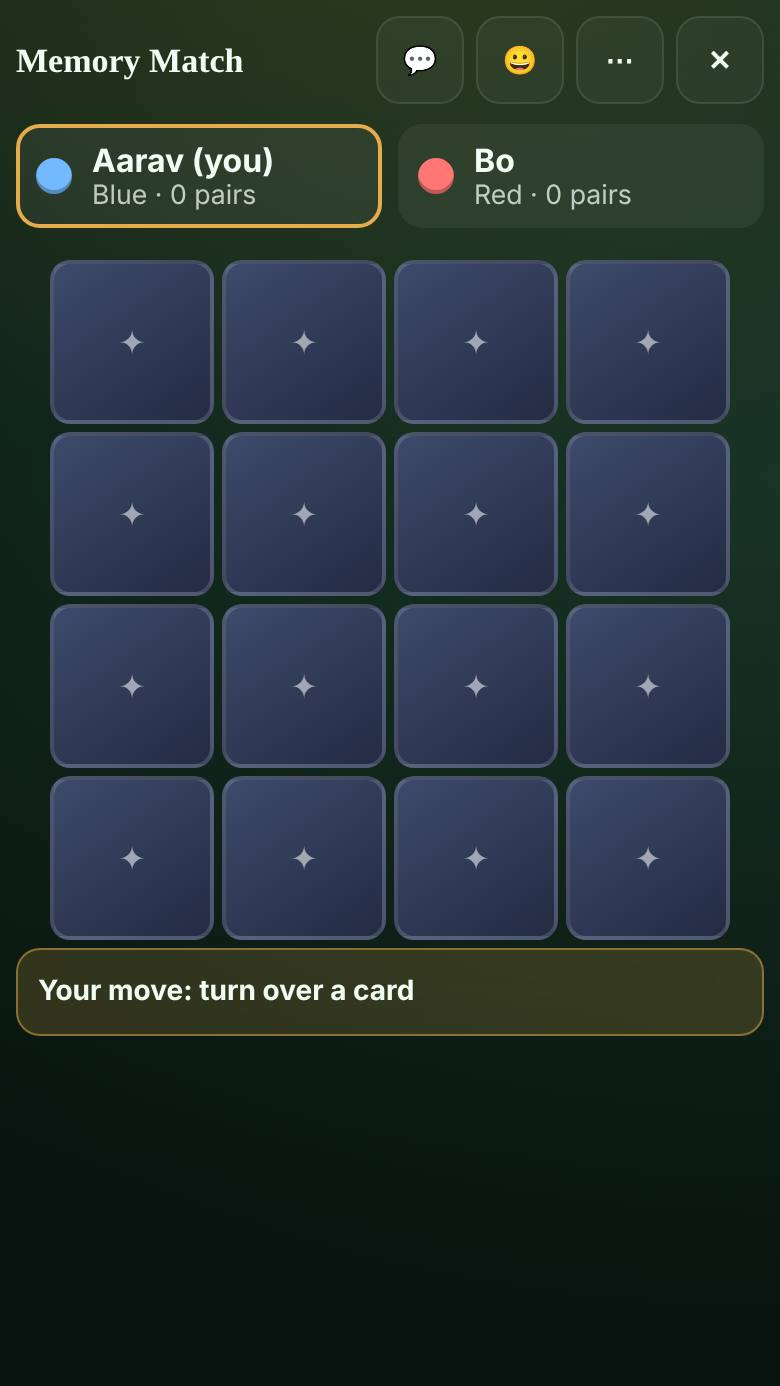
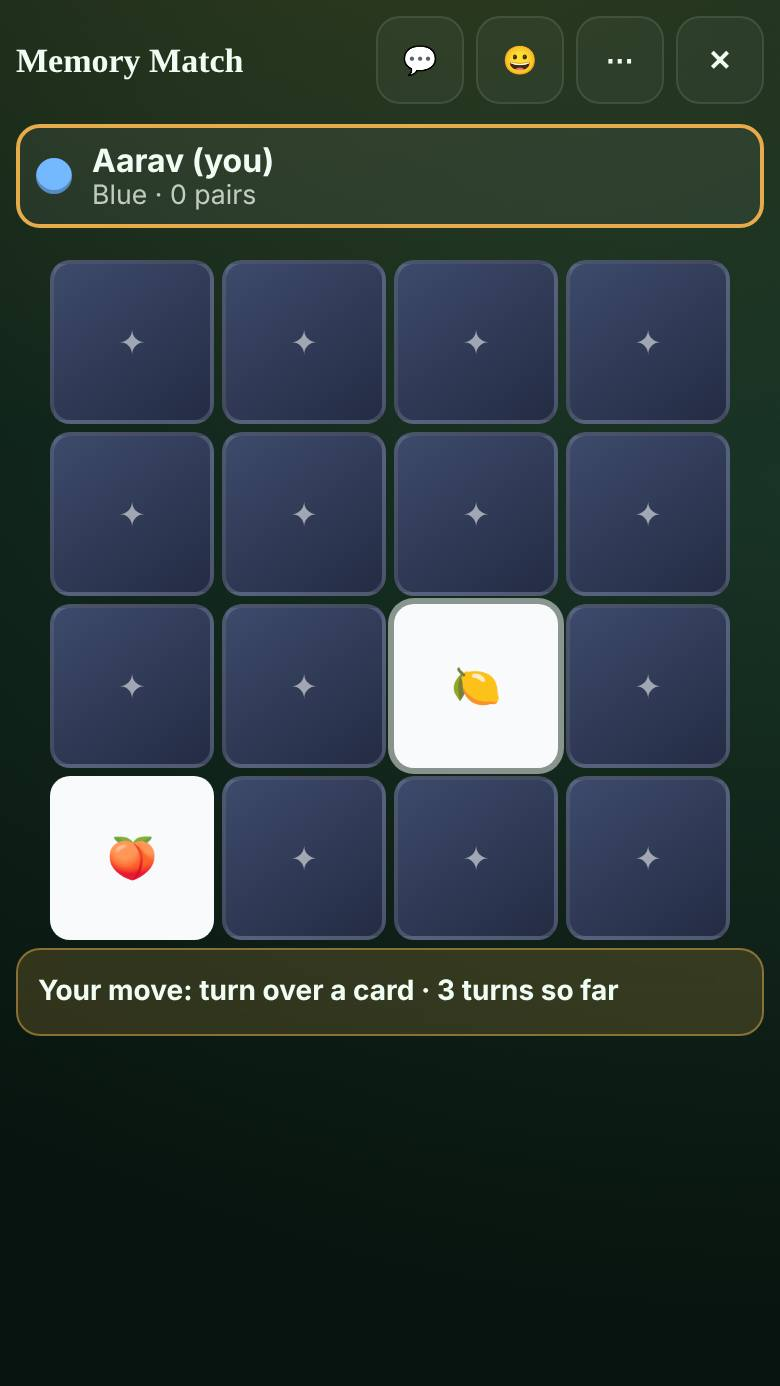
Memory Match how-to: Playing alone shows a solo table
howto-shot.js takes --seats=1 for a one-player table. The Playing alone card now shows a real
solo game (one player, turns so far) in place of the two-player picture. Index regenerated.

Claude-Session: https://claude.ai/code/session_01Mdz7EyMaSRhnqZcHHmLtTg

diff --git a/scripts/howto-shot.js b/scripts/howto-shot.js
@@ -24,7 +24,8 @@ const def = games.get(GAME);
 if (!def) throw new Error('unknown game ' + GAME);
 const NAMES = ['Aarav', 'Bo', 'Cy', 'Di', 'Ed', 'Fi', 'Gu', 'Hi'];
 const AVATARS = ['🧙', '🦊', '🐼', '🦉', '🐉', '🐸', '🦁', '🐙'];
-const n = def.seats.default;
+// --seats=1 shows a solo table (for a card about playing alone); the default is the game's usual seat count
+const n = flags.seats ? Number(flags.seats) : def.seats.default;
 const players = Array.from({ length: n }, (_, i) => ({ id: i ? 'p' + i : 'me', name: NAMES[i], avatar: AVATARS[i] }));
 const opts = Object.fromEntries((def.options || []).filter((o) => o.default !== undefined).map((o) => [o.key, o.default]));
 let a = Number(SEED);
